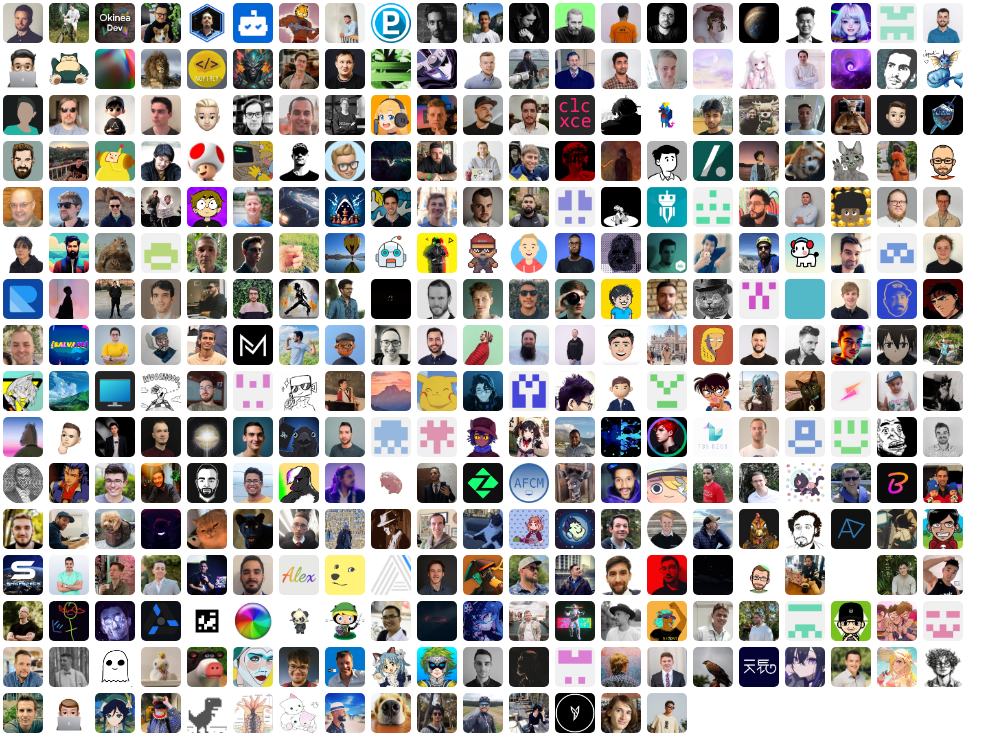
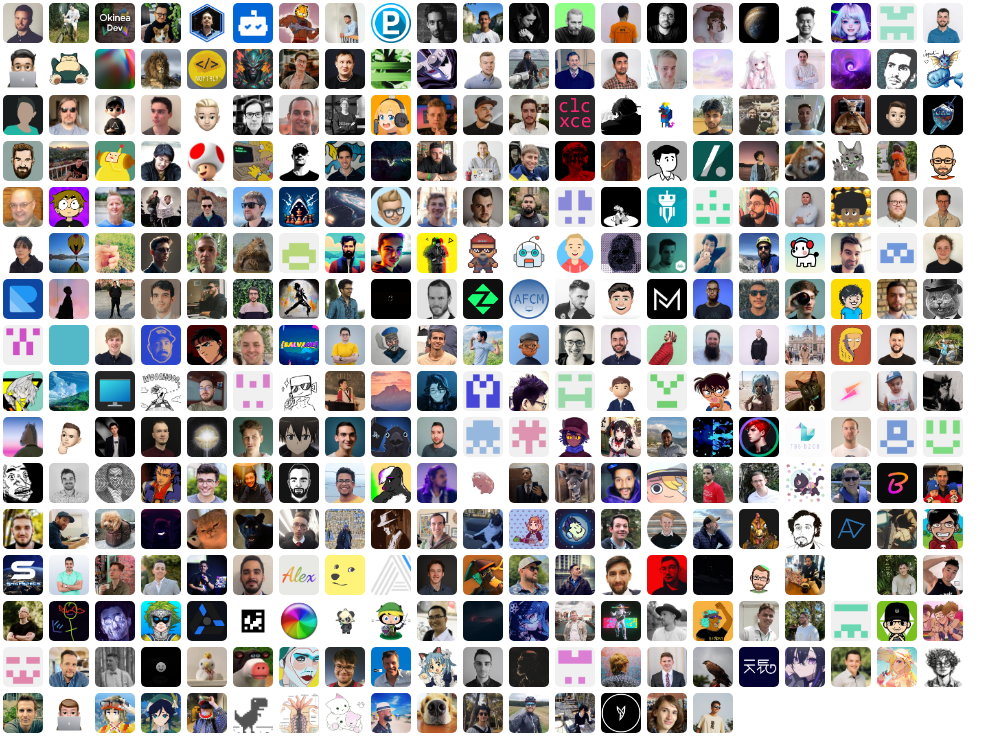
release: 🔖 v1.13.0

diff --git a/CHANGELOG.md b/CHANGELOG.md
@@ -3,10 +3,23 @@
  All notable changes to this project will be documented in this file. Dates are displayed in UTC.
 
  
+#### [v1.13.0](https://github.com/lucodear/lucodear-icons/compare/v1.12.0...v1.13.0) 
+
+> October 23, 2024 
+
+- Add `label` icon for `.github/labeler.yml` file [`#2607`](https://github.com/lucodear/lucodear-icons/pull/2607)
+- feat: add Copilot icon for `.github/copilot-instructions.md` file [`#2632`](https://github.com/lucodear/lucodear-icons/pull/2632)
+- Add events package in package.json [`#2630`](https://github.com/lucodear/lucodear-icons/pull/2630)
+- add Bahasa Indonesia (id) translation [`#2627`](https://github.com/lucodear/lucodear-icons/pull/2627)
+- feat: :sparkles: Add `.tazerc` and `.tazerc.json` filenames for `taze` icon [`#2628`](https://github.com/lucodear/lucodear-icons/pull/2628)
+- build(deps): bump actions/checkout in the github-actions group [`#2626`](https://github.com/lucodear/lucodear-icons/pull/2626)
+- feat: ✨ pest guard icon [`#107`](https://github.com/lucodear/lucodear-icons/pull/107)
+ 
 #### [v1.12.0](https://github.com/lucodear/lucodear-icons/compare/v1.11.0...v1.12.0) 
 
 > October 9, 2024 
 
+- release: 🔖 v1.12.0 [`4c80b05c`](https://github.com/lucodear/lucodear-icons/commit/4c80b05c)
 - feat: ✨ bruno folder [`52aff923`](https://github.com/lucodear/lucodear-icons/commit/52aff923)
 - Added env abbreviations on tune icon recognized names [`#2624`](https://github.com/lucodear/lucodear-icons/pull/2624)
 - Add stackblitz file icon [`#2621`](https://github.com/lucodear/lucodear-icons/pull/2621)
